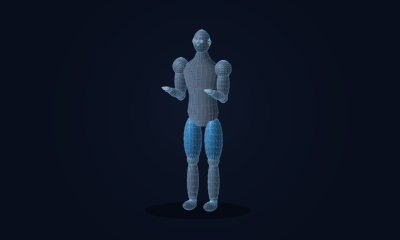
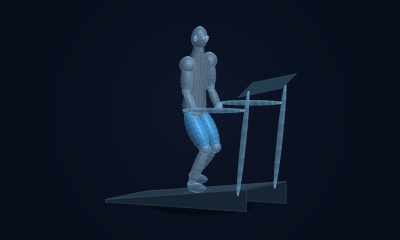
Add treadmill equipment and grounded incline walking animation

Changed region(s): [[0.24, 0.0875, 0.75, 0.9042]]

diff --git a/resources/js/Support/exerciseDemoScene.js b/resources/js/Support/exerciseDemoScene.js
@@ -71,6 +71,25 @@ export function exercisePose(slug, phase) {
             arm.elbow=add(arm.shoulder,[0,-.28*Math.cos(angle),.28*Math.sin(angle)]);
             arm.wrist=add(arm.elbow,[0,.08,.25]);
         });
+    } else if(slug==='incline-treadmill-walk') {
+        pose.pelvis=[0,1.05+.008*Math.cos(phase*Math.PI*4),0];
+        pose.neck=add(pose.pelvis,[0,.63,.055]);
+        pose.head=add(pose.neck,[0,.15,.013]);
+        pose.legs=[-1,1].map((side,index)=>{
+            const cycle=((phase+index*.5)%1+1)%1;
+            const swing=Math.max(0,(cycle-.6)/.4);
+            const z=cycle<.6?.24-.48*cycle/.6:-.24+.48*(swing*swing*(3-2*swing));
+            const lift=cycle<.6?0:.085*Math.sin(Math.PI*swing);
+            const hip=add(pose.pelvis,[side*.12,-.025,0]);
+            const ankle=[side*.13,treadmillBeltHeight(z)+.08+lift,z];
+            return {hip,ankle,knee:joint(hip,ankle,.43,.43,[0,0,1])};
+        });
+        pose.arms=[-1,1].map((side,index)=>{
+            const swing=-.16*Math.cos(phase*Math.PI*2+index*Math.PI);
+            const shoulder=add(pose.neck,[side*.235,-.12,0]);
+            const elbow=add(shoulder,[side*.025,-.29,swing]);
+            return {shoulder,elbow,wrist:add(elbow,[0,-.22,.10])};
+        });
     } else if(archetypeFor(slug)) {
         archetypePose(pose, archetypeFor(slug), t, phase);
     }
@@ -514,6 +533,8 @@ function stretchPose(pose, variant, t) {
         return {shoulder,wrist,elbow:joint(shoulder,wrist,UPPER_ARM,FOREARM,[side,.2,.4])};});
 }
 
+export const treadmillBeltHeight = (z) => .16+.12*z;
+
 const cameraFrames = new Map();
 
 /** Fit the whole motion once so the camera stays still throughout the loop. */
@@ -521,7 +542,7 @@ export function exerciseCamera(slug) {
     if (cameraFrames.has(slug)) return cameraFrames.get(slug);
     const initial = exercisePose(slug, 0);
     const horizontal = slug === 'bench-press' || initial.prone || initial.horizontal;
-    const yaw = horizontal ? -1.02 : .48;
+    const yaw = slug==='incline-treadmill-walk' ? -1.05 : horizontal ? -1.02 : .48;
     const pitch = horizontal ? .24 : .12;
     const cy = Math.cos(yaw), sy = Math.sin(yaw), cp = Math.cos(pitch), sp = Math.sin(pitch);
     const project = ([x,y,z]) => [x*cy-z*sy, -y*cp+(x*sy+z*cy)*sp, (x*sy+z*cy)*cp+y*sp];
@@ -529,6 +550,7 @@ export function exerciseCamera(slug) {
     for (let frame = 0; frame < 32; frame++) {
         const pose = exercisePose(slug, frame/32);
         const points = [pose.head, pose.neck, pose.pelvis, ...pose.arms.flatMap(Object.values), ...pose.legs.flatMap(Object.values)];
+        if(slug==='incline-treadmill-walk') points.push([-.5,.02,-.85],[.5,1.44,1]);
         for (const point of points) {
             const [x,y] = project(point);
             bounds[0] = Math.min(bounds[0], x-.23);
@@ -584,6 +606,28 @@ export function drawExerciseDemo(canvas, slug, phase) {
         const right=unit(cross(axis,reference)),forward=unit(cross(right,axis));
         ellipsoid(mix(a,b,.5),[width,Math.hypot(...sub(b,a))*.56,depth],color,[right,axis,forward]);
     };
+    if(slug==='incline-treadmill-walk') {
+        const panel=(points,fill,stroke='#344f68')=>{
+            const projected=points.map(camera);
+            faces.push({points:projected,depth:projected.reduce((sum,p)=>sum+p[2],0)/projected.length,fill,stroke});
+        };
+        const belt=(x,z)=>[x,treadmillBeltHeight(z),z];
+        panel([belt(-.43,-.85),belt(.43,-.85),belt(.43,.9),belt(-.43,.9)],'#253749');
+        for(const side of [-1,1]) {
+            const x=side*.43;
+            panel([belt(x,-.85),belt(x,.9),[x,.03,.9],[x,.03,-.85]],'#172432');
+            bone([side*.40,treadmillBeltHeight(.78),.78],[side*.40,1.27,.9],.027,.027,[83,111,134]);
+            bone([side*.40,1.12,.82],[side*.40,1.08,.13],.025,.025,[83,111,134]);
+        }
+        panel([belt(-.43,-.85),belt(.43,-.85),[.43,.03,-.85],[-.43,.03,-.85]],'#1c2b3b');
+        panel([belt(-.34,-.79),belt(.34,-.79),belt(.34,.80),belt(-.34,.80)],'#101d29');
+        for(let mark=0;mark<12;mark++) {
+            const z=-.78+((mark/12-phase*.5+1)%1)*1.56;
+            panel([[-.33,treadmillBeltHeight(z)+.004,z],[.33,treadmillBeltHeight(z)+.004,z],[.33,treadmillBeltHeight(z+.012)+.004,z+.012],[-.33,treadmillBeltHeight(z+.012)+.004,z+.012]],'#354b5c','#354b5c');
+        }
+        panel([[-.48,1.27,.82],[.48,1.27,.82],[.48,1.44,1],[-.48,1.44,1]],'#253b50');
+        panel([[-.20,1.31,.85],[.20,1.31,.85],[.20,1.40,.95],[-.20,1.40,.95]],'#416e8b','#76b5d6');
+    }
     const up=unit(sub(pose.neck,pose.pelvis)),right=[1,0,0];
     const forward=mul(unit(cross(right,up)),pose.prone?-1:1),basis=[right,up,forward];
     const body=(height,x,depth)=>add(mix(pose.pelvis,pose.neck,height),add(mul(right,x),mul(forward,depth)));
@@ -627,7 +671,7 @@ export function drawExerciseDemo(canvas, slug, phase) {
         ellipsoid(arm.elbow,[.044,.046,.043]);
         bone(arm.elbow,arm.wrist,.047,.039);
         const handAxis=unit(sub(arm.wrist,arm.elbow)),handEnd=add(arm.wrist,mul(handAxis,.085));
-        if (slug==='bench-press' || slug==='dumbbell-curl' || loadFor(slug)) {
+        if (slug==='bench-press' || slug==='dumbbell-curl' || slug==='incline-treadmill-walk' || loadFor(slug)) {
             ellipsoid(arm.wrist,[.043,.039,.038]);
             ellipsoid(add(arm.wrist,[.027,.017,.012]),[.014,.025,.018]);
         } else {
@@ -675,5 +719,5 @@ export function drawExerciseDemo(canvas, slug, phase) {
     const ground=camera([0,0,.12]);
     ctx.fillStyle='rgba(0,0,0,.35)';ctx.beginPath();ctx.ellipse(ground[0],ground[1],horizontal?105:53,9,0,0,Math.PI*2);ctx.fill();
     faces.sort((a,b)=>a.depth-b.depth);
-    for(const face of faces) {ctx.beginPath();face.points.forEach((p,i)=>i?ctx.lineTo(p[0],p[1]):ctx.moveTo(p[0],p[1]));ctx.closePath();ctx.fillStyle=face.fill;ctx.strokeStyle='rgba(115,193,245,.20)';ctx.lineWidth=.4;ctx.fill();ctx.stroke();}
+    for(const face of faces) {ctx.beginPath();face.points.forEach((p,i)=>i?ctx.lineTo(p[0],p[1]):ctx.moveTo(p[0],p[1]));ctx.closePath();ctx.fillStyle=face.fill;ctx.strokeStyle=face.stroke??'rgba(115,193,245,.20)';ctx.lineWidth=.4;ctx.fill();ctx.stroke();}
 }

diff --git a/resources/js/Support/exerciseDemos.js b/resources/js/Support/exerciseDemos.js
@@ -101,7 +101,7 @@ export const EXERCISE_DEMOS = {
 export const demoFor = (slug, name = null) => {
     const key = typeof slug === 'string' ? slug.toLowerCase().trim().replaceAll('_', '-').replaceAll(' ', '-') : '';
     // Bump when replacing public assets so returning browsers fetch the new artwork.
-    const artworkVersion = 'wireframe-3';
+    const artworkVersion = key === 'incline-treadmill-walk' ? 'treadmill-4' : 'wireframe-3';
 
     const readableName = name ?? key.replaceAll('-', ' ').replace(/^./, (c) => c.toUpperCase());
     const hand = Object.hasOwn(EXERCISE_DEMOS, key) ? EXERCISE_DEMOS[key] : null;
